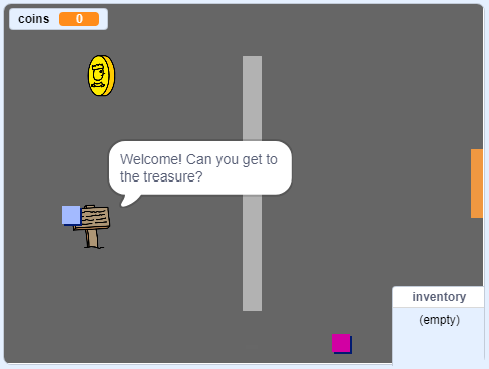
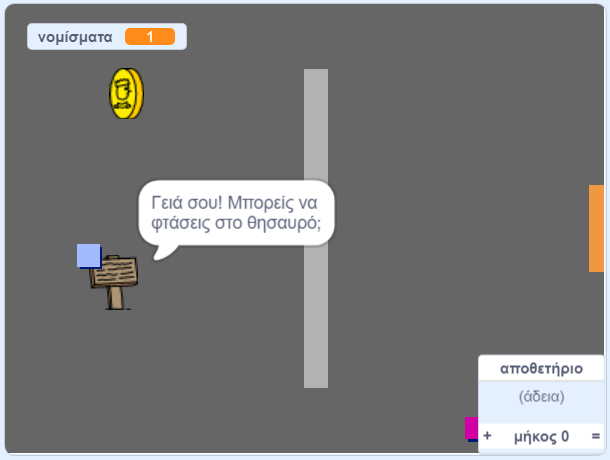
Update Greek
Corrections made in testing

diff --git a/el-GR/step_9.md b/el-GR/step_9.md
@@ -58,7 +58,9 @@ end
 
 --- /hint ---
 
---- hint --- Ο κώδικάς σου θα πρέπει να μοιάζει κάπως έτσι:
+--- hint ---
+
+Ο κώδικας θα πρέπει να μοιάζει κάπως έτσι:
 
 ```blocks3
 Όταν στην πράσινη σημαία γίνει κλικ
@@ -81,7 +83,7 @@ end
 
 --- task ---
 
-Πρόσθεσε έναν νέο χαρακτήρα `πορτοκάλι` από τη βιβλιοθήκη Scratch.
+Πρόσθεσε έναν νέο χαρακτήρα `πορτοκάλι` από τη βιβλιοθήκη του Scratch.
 
 ![screenshot](images/invaders-orange.png)
 
@@ -91,7 +93,7 @@ end
 
 Πρόσθεσε κώδικα στη νυχτερίδα σου έτσι ώστε `όταν πατήσεις τη σημαία`{:class="block3events"}, ο χαρακτήρας `νυχτερίδα` `για πάντα`{:class="block3control"} `να περιμένει`{:class="block3control"} `για τυχαία διάρκεια χρόνου`{:class="block3operators"} μεταξύ `5 και 10`{:class="block3operators"} δευτερόλεπτων και στη συνέχεια `να δημιουργεί έναν κλώνο`{:class="block3control"} του χαρακτήρα `πορτοκάλι`.
 
-![χαρακτήρας νυχτερίδας](images/bat-sprite.png)
+![χαρακτήρας νυχτερίδα](images/bat-sprite.png)
 
 ```blocks3
 Όταν στην πράσινη σημαία γίνει κλικ
@@ -105,9 +107,9 @@ end
 
 --- task ---
 
-Πρόσθεσε κώδικα στο `πορτοκάλι` για να κάνεις κάθε κλώνο να πέφτει, ξεκινώντας από το χαρακτήρα `νυχτερίδα` και συνεχιζοντας προς το κάτω μέρος του σκηνικού.
+Πρόσθεσε κώδικα στο `πορτοκάλι` για να κάνεις κάθε κλώνο να πέφτει, ξεκινώντας από το χαρακτήρα `νυχτερίδα` και συνεχίζοντας προς το κάτω μέρος του σκηνικού.
 
-![χαρακτήρας πορτοκαλιού](images/orange-sprite.png)
+![χαρακτήρας πορτοκάλι](images/orange-sprite.png)
 
 ```blocks3
     Όταν στην πράσινη σημαία γίνει κλικ
@@ -128,10 +130,10 @@ end
 
 Πρόσθεσε λίγο ακόμη κώδικα στο χαρακτήρα `πορτοκάλι`, έτσι ώστε όταν ένα `πορτοκάλι` χτυπήσει τον χαρακτήρα `διαστημόπλοιο`, να εξαφανίζεται για να δώσει στον παίκτη την ευκαιρία να ανακάμψει:
 
-![χαρακτήρας πορτοκαλιού](images/orange-sprite.png)
+![χαρακτήρας πορτοκάλι](images/orange-sprite.png)
 
 ```blocks3
-    όταν λάβω [hit v]
+    όταν λάβω [χτυπημένο v]
 διάγραψε αυτόν τον κλώνο
 ```
 
@@ -141,7 +143,7 @@ end
 
 Θα πρέπει επίσης να τροποποιήσεις τον κώδικα στο χαρακτήρα `διαστημόπλοιο` έτσι ώστε να βάλλεται όταν αγγίζει ένα χαρακτήρα `ιπποπόταμο` ή έναν χαρακτήρα `πορτοκάλι`:
 
-![χαρακτήρας πύραυλου](images/rocket-sprite.png)
+![χαρακτήρας πύραυλος](images/rocket-sprite.png)
 
 ```blocks3
     περίμενε ώσπου < <touching (Hippo1 v)?> ή <touching (Orange v)?>>

diff --git a/el-GR/step_10.md b/el-GR/step_10.md
@@ -25,7 +25,7 @@
 ![χαρακτήρας τέλους παιχνιδιού](images/stage-sprite.png)
 
 ```blocks3
-μετάδωσε (game over v) και περίμενε
+μετάδωσε (Τέλος Παιχνιδιού v) και περίμενε
 ```
 
 --- /task ---
@@ -40,11 +40,11 @@
 Όταν στην πράσινη σημαία γίνει κλικ
 εξαφανίσου
 
-όταν λάβω [game over v]
+όταν λάβω [Τέλος Παιχνιδιού v]
 εμφανίσου
 ```
 
-Επειδή έχεις χρησιμοποιήσει ένα μπλοκ `μετάδωσε (game over v) και περίμενε`{:class="block3events"} στο σκηνικό σου, θα περιμένει να εμφανιστεί ο χαρακτήρας `Τέλος Παιχνιδιού` πριν τελειώσει το παιχνίδι.
+Επειδή έχεις χρησιμοποιήσει ένα μπλοκ `μετάδωσε (Τέλος Παιχνιδιού v) και περίμενε`{:class="block3events"} στο σκηνικό σου, θα περιμένει να εμφανιστεί ο χαρακτήρας `Τέλος Παιχνιδιού` πριν τελειώσει το παιχνίδι.
 
 --- /task ---
 

diff --git a/el-GR/step_7.md b/el-GR/step_7.md
@@ -10,11 +10,10 @@
 
 ```blocks3
 Όταν στην πράσινη σημαία γίνει κλικ
-άλλαξε ενδυμασία σε (normal v)
+άλλαξε ενδυμασία σε (χτυπημένο v)
 περίμενε ώσπου <touching (Hippo1 v)>
-άλλαξε ενδυμασία σε (hit v)
-
-+ μετάδωσε (hit v)
+άλλαξε ενδυμασία σε (χτυπημένο v)
++ μετάδωσε (χτυπημένο v)
 ```
 
 --- /task ---
@@ -26,7 +25,7 @@
 ![χαρακτήρας ιπποπόταμου](images/hippo-sprite.png)
 
 ```blocks3
-όταν λάβω [hit v]
+όταν λάβω [χτυπημένο v]
 διάγραψε αυτόν τον κλώνο
 ```
 
@@ -51,10 +50,10 @@
 ```blocks3
 Όταν στην πράσινη σημαία γίνει κλικ
 για πάντα 
-  άλλαξε ενδυμασία σε (normal v)
+  άλλαξε ενδυμασία σε (χτυπημένο v)
   περίμενε ώσπου <touching (Hippo1 v)>
-  άλλαξε ενδυμασία σε (hit v)
-  μετάδωσε (hit v)
+  άλλαξε ενδυμασία σε (χτυπημένο v)
+  μετάδωσε (χτυπημένο v)
   + περίμενε (1) δευτερόλεπτα
 end
 ```

diff --git a/el-GR/step_2.md b/el-GR/step_2.md
@@ -43,7 +43,7 @@ end
 
 --- task ---
 
-Πρόσθεσε τον αντίστοιχο κώδικα μέσα στο μπλοκ του βρόχου `forever`{:class="block3control"} για να κινηθεί το διαστημόπλοιο προς τα δεξιά όταν πατηθεί το <kbd>δεξί</kbd> βέλος.
+Πρόσθεσε τον αντίστοιχο κώδικα μέσα στο μπλοκ του βρόχου `για πάντα`{:class="block3control"} για να κινηθεί το διαστημόπλοιο προς τα δεξιά όταν πατηθεί το <kbd>δεξί</kbd> βέλος.
 
 --- hints ---
 
@@ -66,7 +66,7 @@ end
 
 --- hint ---
 
-Εδώ είναι ο κώδικας που θα χρειαστεί να προσθέσεις κάτω από τον άλλο κώδικα μέσα στο μπλοκ `forever`{:class="block3control"}:
+Εδώ είναι ο κώδικας που θα χρειαστεί να προσθέσεις κάτω από τον άλλο κώδικα μέσα στο μπλοκ `για πάντα`{:class="block3control"}:
 
 ![χαρακτήρας πύραυλου](images/rocket-sprite.png)
 

diff --git a/el-GR/step_12.md b/el-GR/step_12.md
@@ -24,7 +24,7 @@
 Το έργο αυτό μεταφράστηκε από τους εθελοντές:
 
 Μάνος Ζεάκης
-
 Διονύσιος Μπραιλας
+Αλέξανδρος Ρονιώτης (Σύλλογος ΨηφίΔα)
 
 Χάρη στους εθελοντές, μπορούμε να δώσουμε σε ανθρώπους σε όλο τον κόσμο την ευκαιρία να μάθουν στη γλώσσα τους. Μπορείτε να μας βοηθήσετε να προσεγγίσουμε περισσότερους ανθρώπους μεταφράζοντας εθελοντικά - περισσότερες πληροφορίες στο [rpf.io/translate](https://rpf.io/translate).

diff --git a/el-GR/step_5.md b/el-GR/step_5.md
@@ -103,7 +103,7 @@ end
 
 ```blocks3
 όταν ξεκινήσω ως κλώνος
-όρισε [speed v] σε (επίλεξε τυχαίο (2) εώς (4))
+όρισε [ταχύτητα v] σε (επίλεξε τυχαίο (2) εώς (4))
 πήγαινε σε θέση x: (επίλεξε τυχαίο (-220) εώς (220)) y: (150)
 εμφανίσου
 ```
@@ -124,7 +124,7 @@ end
 
 ```blocks3
 επανάλαβε ώσπου <touching (lightning v) ?> 
-  κινήσου (speed :: variables) βήματα
+  κινήσου (ταχύτητα :: variables) βήματα
   στρίψε δεξιόστροφα (επίλεξε τυχαίο (-10) εώς (10)) μοίρες
   εάν σε όριο, αναπήδησε
 end

diff --git a/el-GR/step_1.md b/el-GR/step_1.md
@@ -55,7 +55,7 @@ title: Τι θα μάθεις
 
 + Πώς θα κάνεις τους χαρακτήρες να κινούνται με τη χρήση του πληκτρολόγιου
 + Πώς θα δημιουργήσεις αντίγραφα των χαρακτήρων
-+ Πώς να χρησιμοποιήσεις τη λειτουργία "εκπομπή" και "λήψη μπλοκ" για την αποστολή μηνυμάτων
++ Πώς να χρησιμοποιήσεις τα μπλοκ "μετάδωσε" και "όταν λάβω" για την αποστολή μηνυμάτων
 
 --- /collapse ---
 

diff --git a/el-GR/step_4.md b/el-GR/step_4.md
@@ -1,3 +1,3 @@
 ## Πρόκληση: βελτίωση της αστραπής
 
-Τι συμβαίνει εάν κρατάς πατημένο το πλήκτρο <kbd>space</kbd>; Μπορείς να χρησιμοποιήσεις ένα μπλοκ `wait`{:class="block3control"} για να διορθώσεις αυτό το πρόβλημα;
+Τι συμβαίνει εάν κρατάς πατημένο το πλήκτρο <kbd>space</kbd>; Μπορείς να χρησιμοποιήσεις ένα μπλοκ `περίμενε`{:class="block3control"} για να διορθώσεις αυτό το πρόβλημα;

diff --git a/el-GR/step_6.md b/el-GR/step_6.md
@@ -28,9 +28,9 @@
 
 ```blocks3
 Όταν στην πράσινη σημαία γίνει κλικ
-άλλαξε ενδυμασία σε (normal v)
+άλλαξε ενδυμασία σε (κανονικό v)
 περίμενε ώσπου <touching (Hippo1 v)>
-άλλαξε ενδυμασία σε (hit v)
+άλλαξε ενδυμασία σε (χτυπημένο v)
 ```
 
 --- /task ---

diff --git a/el-GR/step_11.md b/el-GR/step_11.md
@@ -15,5 +15,5 @@
 + Δημιούργησε περισσότερους εχθρούς όταν το σκορ σου φτάσει στα `100`.
 
 ```blocks3
-    περίμενε ώσπου <(score :: variables) = [100]>
+    περίμενε ώσπου <(σκορ :: variables) = [100]>
 ```

diff --git a/el-GR/step_3.md b/el-GR/step_3.md
@@ -68,7 +68,7 @@ end
 
 δημιούργησε κλώνο του (Lightning v)
 
-&lt;key (space v) pressed?&gt;
+<key (space v) pressed?>
 
 Όταν στην πράσινη σημαία γίνει κλικ
 ```
